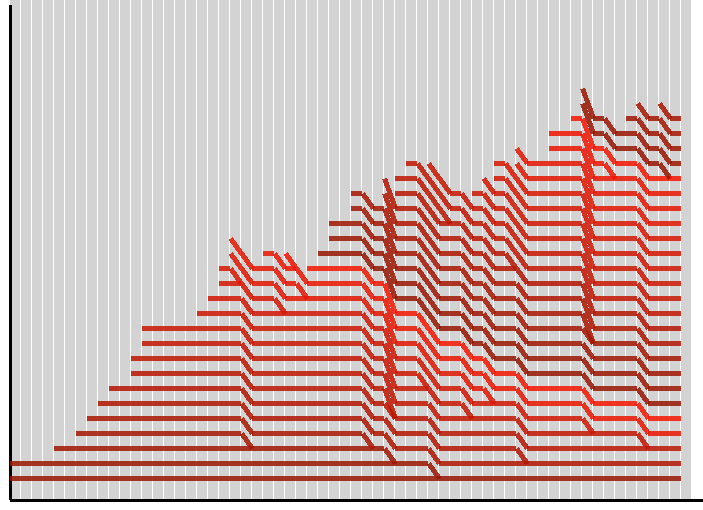
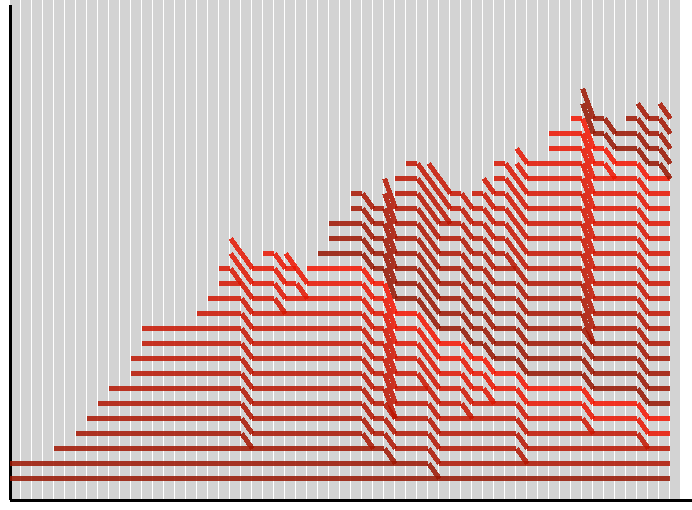
bugs, hunter ( extra for story telling purposes :-)

Changed region(s): [[0.0607, 0.0, 0.9711, 0.9706]]

diff --git a/DashBoard/BugTest.cs b/DashBoard/BugTest.cs
@@ -18,6 +18,23 @@ namespace DashBoard
 			ApprovalTests.WinForms.WinFormsApprovals.Verify(new BugsChart(bugs));
 		}
 
+		[TestMethod]
+		public void TestHunterBugChart()
+		{
+
+			var bugs = Enumerable.Range(0, 60).SelectMany(i => GenerateHunterBugs(i));
+			ApprovalTests.WinForms.WinFormsApprovals.Verify(new BugsChart(bugs));
+		}
+
+		private IEnumerable<Bug> GenerateHunterBugs(int i)
+		{
+			int bugs = random.Next(5)-3;
+			for (int j = 0; j < bugs; j++)
+			{
+				yield return new Bug(i,1);
+			}
+		}
+
 		private IEnumerable<Bug> GenerateBugs(int i)
 		{
 			int bugs = random.Next(4)-1;

diff --git a/DashBoard/BugsChart.cs b/DashBoard/BugsChart.cs
@@ -23,7 +23,7 @@ namespace DashBoard
 			wheel.AddRange(Enumerable.Range(0, 20).Select(i => Color.FromArgb(215, 150 + i * 5,20, 0)));
 			colors = this.bugs.ToDictionary(b => b, b => wheel.Next());
 			InitializeComponent();
-			numberOfDays = this.bugs.Max(b => b.day + 2);
+			numberOfDays = 60;//this.bugs.Max(b => b.day + 2);
 			Width= ((barWidth+1)*(numberOfDays+2)) + 10;
 			Height = xBar + 10;
 			FormBorderStyle = FormBorderStyle.None;
